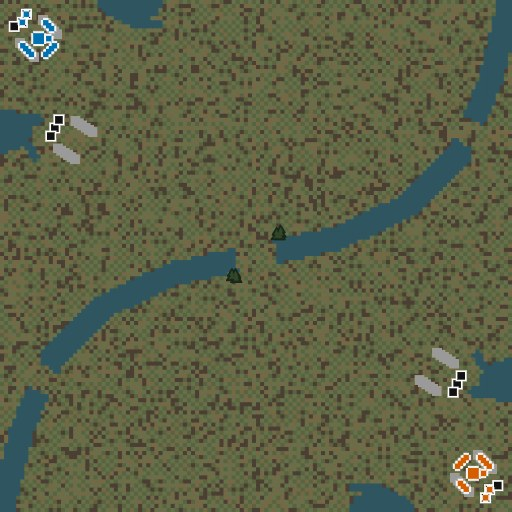
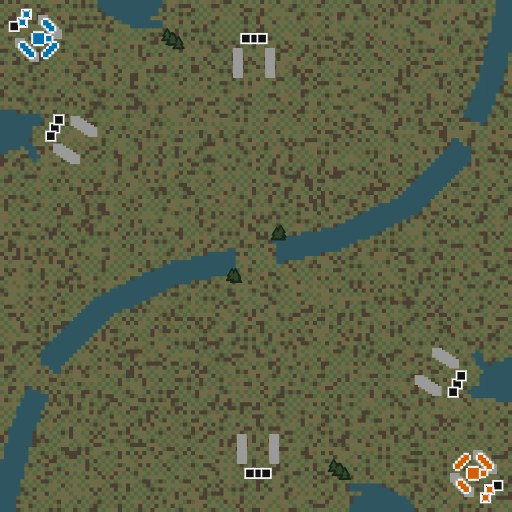
Add central edge expansions to The River
Add mirrored standard-resource bases fifteen tiles from the top and bottom edges, with paired forest clumps tucked toward the nearby water.

diff --git a/server/crates/sim/src/game/map/tests/the_river.rs b/server/crates/sim/src/game/map/tests/the_river.rs
@@ -23,12 +23,19 @@ fn the_river_is_selectable_and_loads_for_a_two_player_match() {
     assert_eq!(map.starts, [(9, 9), (116, 116)]);
     assert_eq!(
         map.base_sites,
-        [(9, 9), (116, 116), (18, 34), (107, 91)]
+        [
+            (9, 9),
+            (116, 116),
+            (18, 34),
+            (107, 91),
+            (63, 110),
+            (62, 15),
+        ]
     );
-    assert_eq!(map.doodads.len(), 6);
-    assert_eq!(map.concealment_tiles.len(), 14);
-    assert_eq!(map.no_vehicle_tiles.len(), 14);
-    assert_eq!(map.no_building_tiles.len(), 14);
+    assert_eq!(map.doodads.len(), 16);
+    assert_eq!(map.concealment_tiles.len(), 38);
+    assert_eq!(map.no_vehicle_tiles.len(), 38);
+    assert_eq!(map.no_building_tiles.len(), 38);
     assert!(
         Map::load("The River", 3, 0x1234_5678).is_err(),
         "The River should not expose a third start location"
